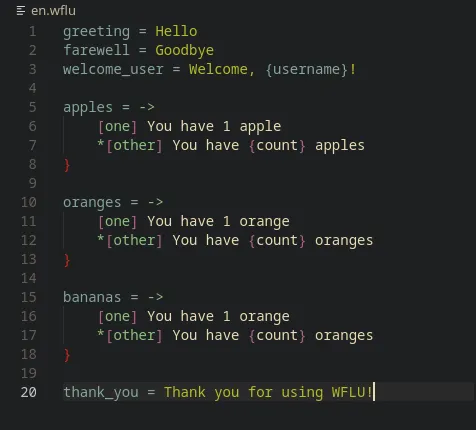
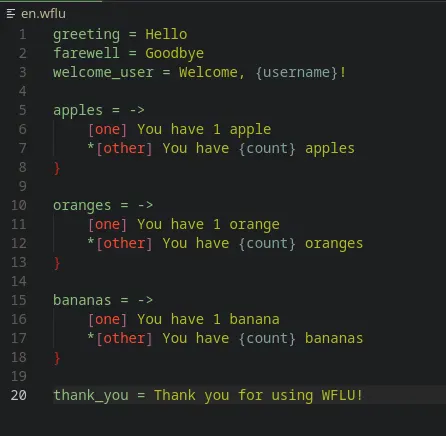
update

diff --git a/README.md b/README.md
@@ -6,12 +6,17 @@ Adds syntax highlighting and variable recognition for **WFLU (`.wflu`) files**, 
 ## Features
 
 - Syntax highlighting for:
-  - **Keys**: e.g., `greeting`, `apples`  
-  - **Choice/Plural operators**: `->`, `[one]`, `*[other]`  
-  - **Block closing brace**: `}`  
-  - **Variables inside values**: `{username}`, `{count}`  
-- `.env`-style formatting: keys on the left, values on the right  
-- Works automatically for simple messages and choice/plural blocks  
+  - **Keys**: e.g., `greeting`, `apples`
+  - **Choice/Plural operators**: `->`, `[one]`, `*[other]`
+  - **Block closing brace**: `}`
+  - **Variables inside values**: `{username}`, `{count}`
+- `.env`-style formatting: keys on the left, values on the right
+- Works automatically for simple messages and choice/plural blocks
 
 WFLU Syntax:
-![example](images/wflu-syntax.webp)  
+![example](images/wflu-syntax.webp)
+
+| Tool                  | Description                                                                                                     | Repository                                                                                                                                                           |
+| --------------------- | --------------------------------------------------------------------------------------------------------------- | -------------------------------------------------------------------------------------------------------------------------------------------------------------------- |
+| WFLU                  | Core WFLU library with parser for `.wflu` files, message retrieval, choice handling, and variable substitution. | [Repo](https://github.com/wyvern-social/WFLU) [NuGet](https://www.nuget.org/packages/WFLU)                                                                           |
+| WFLU-Language-Support | VSCode extension for syntax highlighting on `.wflu` files.                                                      | [Repo](https://github.com/lunariixx/wflu-language-support) [VSCode Marketplace](https://marketplace.visualstudio.com/items?itemName=lunariixx.wflu-language-support) |

diff --git a/CHANGELOG.md b/CHANGELOG.md
@@ -7,3 +7,12 @@ Check [Keep a Changelog](http://keepachangelog.com/) for recommendations on how 
 ## 1.0.0
 
 - Initial release
+
+## 1.0.1
+
+- Comment Support
+- Better highlighting
+- Custom choice pattern support
+- key name highlighting
+- Assignment Operator
+- Dot support in keys
